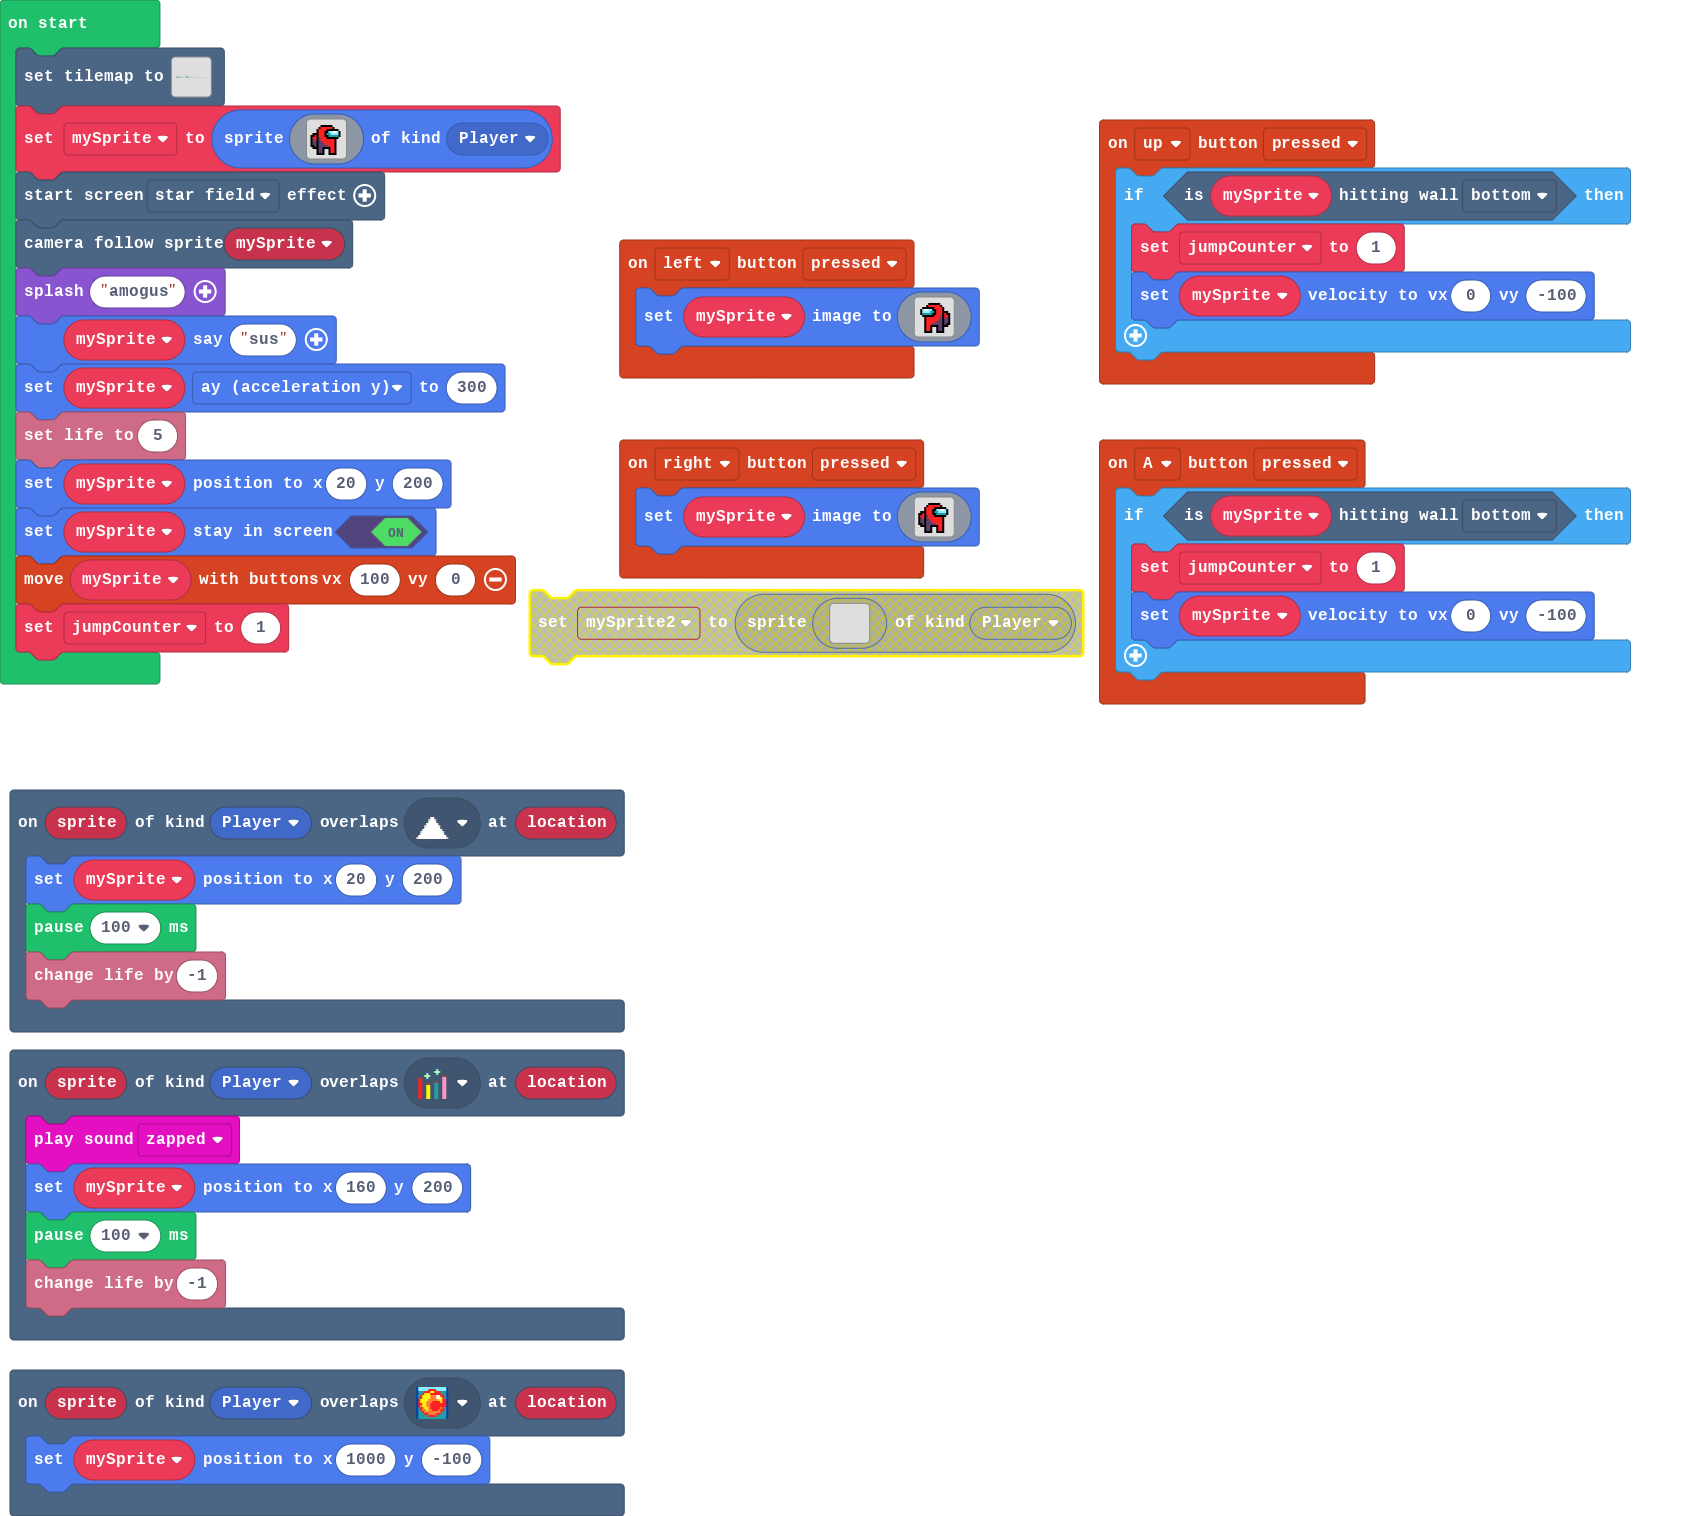
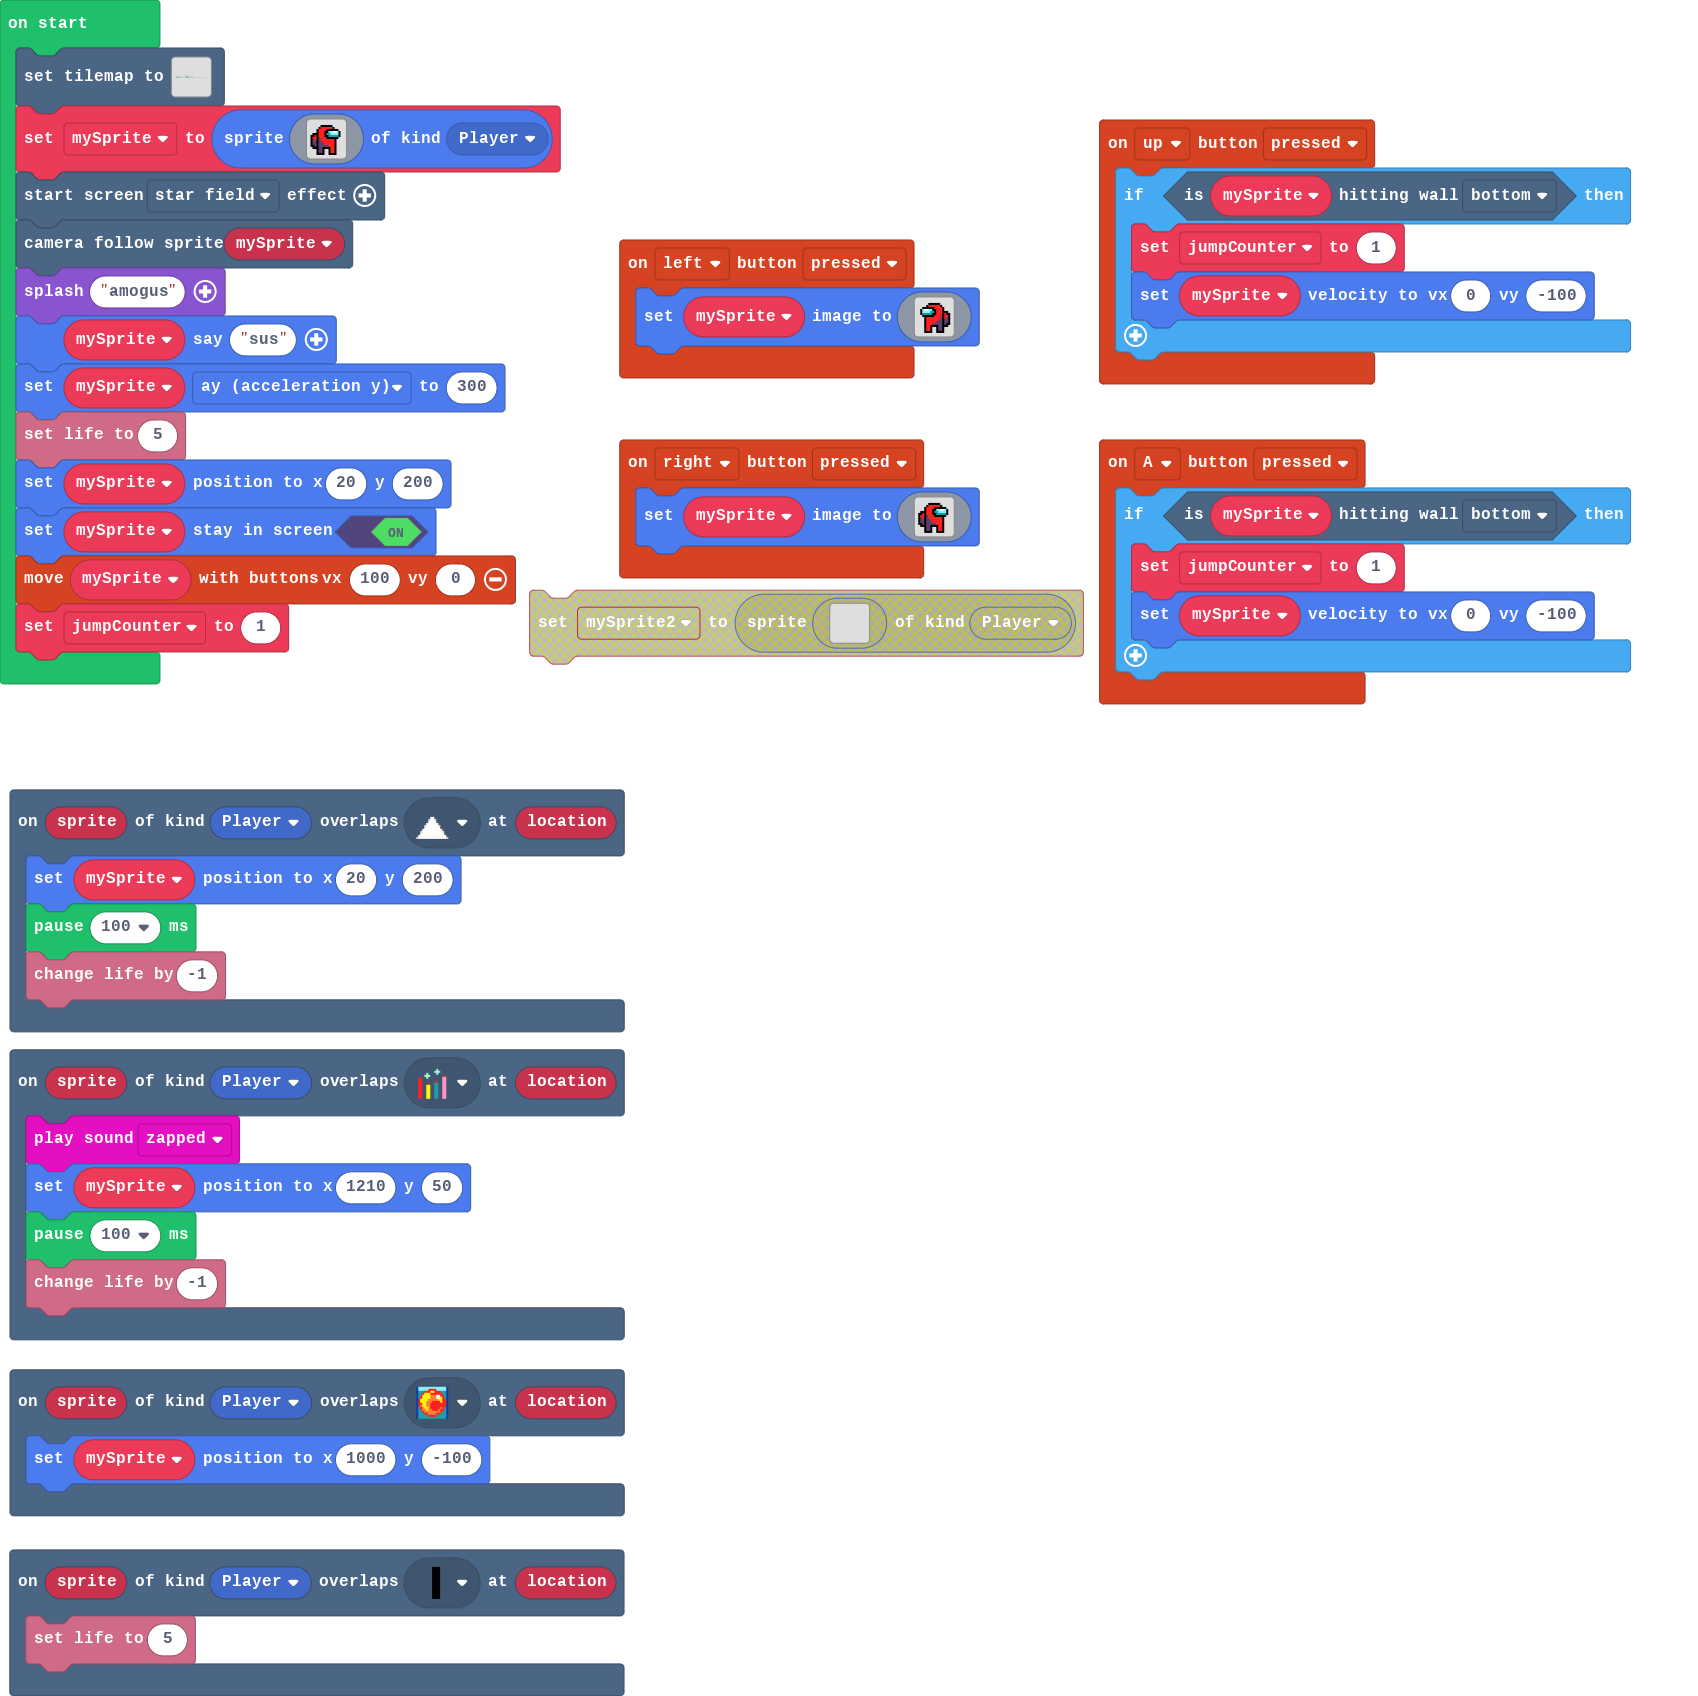
Update main.blocks, main.ts, tilemap.g.jres, tilemap.g.ts

diff --git a/tilemap.g.ts b/tilemap.g.ts
@@ -15,12 +15,6 @@ namespace myTiles {
     //% fixedInstance jres blockIdentity=images._tile
     export const tile1 = image.ofBuffer(hex``);
     //% fixedInstance jres blockIdentity=images._tile
-    export const tile11 = image.ofBuffer(hex``);
-    //% fixedInstance jres blockIdentity=images._tile
-    export const tile12 = image.ofBuffer(hex``);
-    //% fixedInstance jres blockIdentity=images._tile
-    export const tile13 = image.ofBuffer(hex``);
-    //% fixedInstance jres blockIdentity=images._tile
     export const tile10 = image.ofBuffer(hex``);
     //% fixedInstance jres blockIdentity=images._tile
     export const tile14 = image.ofBuffer(hex``);
@@ -36,11 +30,17 @@ namespace myTiles {
     export const tile17 = image.ofBuffer(hex``);
     //% fixedInstance jres blockIdentity=images._tile
     export const tile20 = image.ofBuffer(hex``);
+    //% fixedInstance jres blockIdentity=images._tile
+    export const tile13 = image.ofBuffer(hex``);
+    //% fixedInstance jres blockIdentity=images._tile
+    export const tile12 = image.ofBuffer(hex``);
+    //% fixedInstance jres blockIdentity=images._tile
+    export const tile11 = image.ofBuffer(hex``);
 
     helpers._registerFactory("tilemap", function(name: string) {
         switch(helpers.stringTrim(name)) {
             case "level1":
[2 lines of base64/hex data omitted]
 ........................................................................................................................................................................................................
 ........................................................................................................................................................................................................
 ........................................................................................................................................................................................................
@@ -54,8 +54,8 @@ namespace myTiles {
 .........................22...22.......................................22222222.........................................................................................................................
 ........2222222...2222...22.......22..................................2222..............................................................................................................................
 .......22222222...2222...22..........................................22222..............................................................................................................................
-......222222222...2222...22.............2222222.....................222222....2.....................2222222.............................................................................................
-.....2222222222...2222...22.............2222222....22....22....22222222222...2222....222....22222.......................................................................................................
+......222222222...2222...22.............2222222.....................222222....2....................22222222...222.......................................................................................
+.....2222222222...2222...22.............2222222....22....22....22222222222...2222....222....22222...........2...........................................................................................
 22222222222222222222222222222222222222222222222222222222222222222222222222222222222222222222222222222222222222222222222222222222222222222222222222222222222222222222222222222222222222222222222222222222
 `, [myTiles.transparency16,myTiles.tile1,myTiles.tile3,myTiles.tile4,myTiles.tile6,myTiles.tile7,myTiles.tile8,myTiles.tile14,myTiles.tile15,myTiles.tile16,myTiles.tile18,myTiles.tile19,myTiles.tile17,myTiles.tile11,myTiles.tile12,myTiles.tile13,myTiles.tile20], TileScale.Sixteen);
         }
@@ -77,12 +77,6 @@ namespace myTiles {
             case "tile3":return tile3;
             case "skeldfloor":
             case "tile1":return tile1;
-            case "checkpoint1":
-            case "tile11":return tile11;
-            case "checkpoint2":
-            case "tile12":return tile12;
-            case "checkpoint3":
-            case "tile13":return tile13;
             case "myTile0":
             case "tile10":return tile10;
             case "handrail":
@@ -99,6 +93,12 @@ namespace myTiles {
             case "tile17":return tile17;
             case "finishline":
             case "tile20":return tile20;
+            case "checkpoint3":
+            case "tile13":return tile13;
+            case "checkpoint2":
+            case "tile12":return tile12;
+            case "checkpoint1":
+            case "tile11":return tile11;
         }
         return null;
     })

diff --git a/main.ts b/main.ts
@@ -40,7 +40,7 @@ controller.left.onEvent(ControllerButtonEvent.Pressed, function () {
 })
 scene.onOverlapTile(SpriteKind.Player, assets.tile`wires`, function (sprite, location) {
     music.zapped.play()
-    mySprite.setPosition(160, 200)
+    mySprite.setPosition(1210, 50)
     pause(100)
     info.changeLifeBy(-1)
 })
@@ -63,6 +63,9 @@ controller.right.onEvent(ControllerButtonEvent.Pressed, function () {
         . . . f c c f . . f 2 2 f . . . 
         . . . f f f f . . f f f f . . . 
         `)
+})
+scene.onOverlapTile(SpriteKind.Player, assets.tile`checkpoint1`, function (sprite, location) {
+    info.setLife(5)
 })
 let jumpCounter = 0
 let mySprite: Sprite = null
